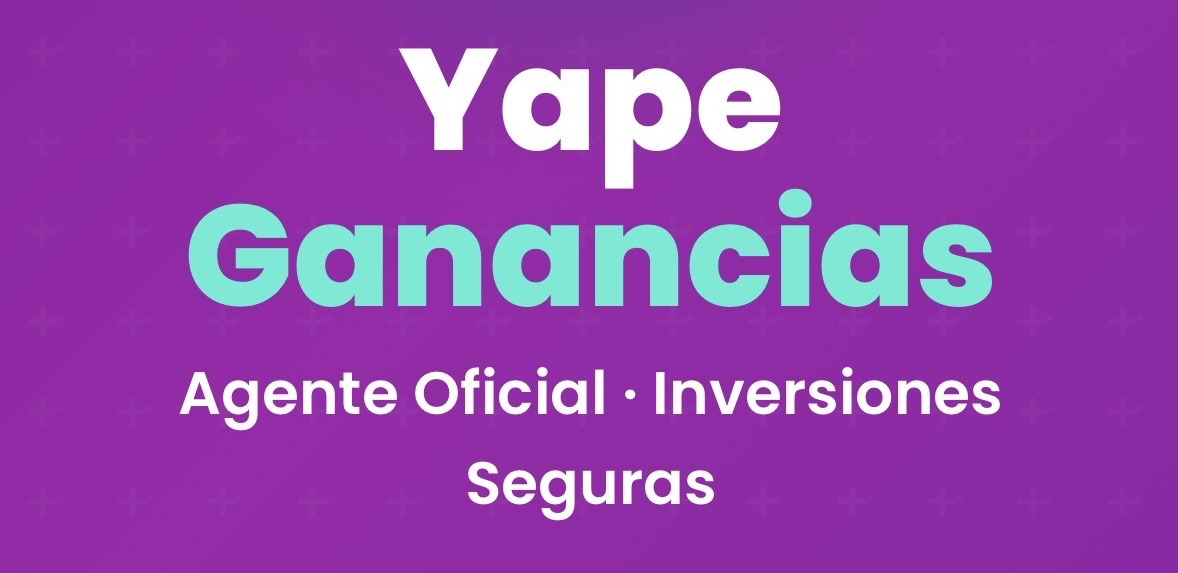
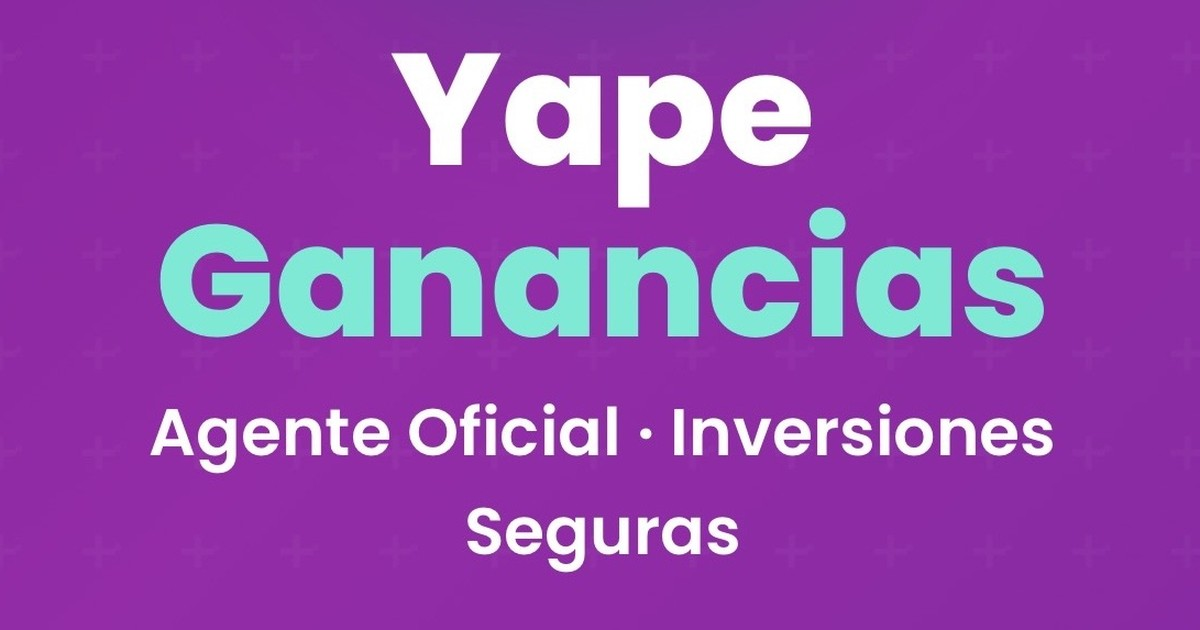
Add files via upload

diff --git a/index.html b/index.html
@@ -4,29 +4,45 @@
     <meta charset="UTF-8">
     <meta name="viewport" content="width=device-width, initial-scale=1.0, maximum-scale=1.0, user-scalable=no">
 
-    <!-- Open Graph / Facebook -->
+    <!-- Primary Meta Tags -->
+    <title>Yape Ganancias - Hugo García</title>
+    <meta name="description" content="Agente Verificado Yape Oficial. Inversiones seguras con Hugo García. ¡Invierte y gana desde S/100!">
+    <meta name="theme-color" content="#710386">
+    <meta name="author" content="Hugo García">
+
+    <!-- Open Graph / Facebook / WhatsApp / Telegram -->
     <meta property="og:type" content="website">
-    <meta property="og:url" content="https://tu-usuario.github.io/yape-ganancias/">
+    <meta property="og:site_name" content="Yape Ganancias">
+    <meta property="og:url" content="https://honkeet.github.io/testyqpe/">
     <meta property="og:title" content="Yape Ganancias - Agente Oficial · Inversiones Seguras">
-    <meta property="og:description" content="Agente Verificado Yape Oficial. Inversiones seguras con Hugo García. ¡Invierte y gana!">
-    <meta property="og:image" content="https://tu-usuario.github.io/yape-ganancias/preview.jpg">
+    <meta property="og:description" content="Agente Verificado Yape Oficial. Inversiones seguras con Hugo García. ¡Invierte y gana desde S/100!">
+    <meta property="og:image" content="https://honkeet.github.io/testyqpe/preview.jpg">
+    <meta property="og:image:secure_url" content="https://honkeet.github.io/testyqpe/preview.jpg">
+    <meta property="og:image:type" content="image/jpeg">
     <meta property="og:image:width" content="1200">
     <meta property="og:image:height" content="630">
-    <meta property="og:locale" content="es_ES">
-    <meta property="og:site_name" content="Yape Ganancias">
+    <meta property="og:image:alt" content="Yape Ganancias - Agente Oficial Hugo García">
+    <meta property="og:locale" content="es_PE">
 
-    <!-- Twitter -->
-    <meta property="twitter:card" content="summary_large_image">
-    <meta property="twitter:url" content="https://tu-usuario.github.io/yape-ganancias/">
-    <meta property="twitter:title" content="Yape Ganancias - Agente Oficial · Inversiones Seguras">
-    <meta property="twitter:description" content="Agente Verificado Yape Oficial. Inversiones seguras con Hugo García. ¡Invierte y gana!">
-    <meta property="twitter:image" content="https://tu-usuario.github.io/yape-ganancias/preview.jpg">
+    <!-- Twitter Card -->
+    <meta name="twitter:card" content="summary_large_image">
+    <meta name="twitter:site" content="@yapeganancias">
+    <meta name="twitter:creator" content="@yapeganancias">
+    <meta name="twitter:url" content="https://honkeet.github.io/testyqpe/">
+    <meta name="twitter:title" content="Yape Ganancias - Agente Oficial · Inversiones Seguras">
+    <meta name="twitter:description" content="Agente Verificado Yape Oficial. Inversiones seguras con Hugo García. ¡Invierte y gana desde S/100!">
+    <meta name="twitter:image" content="https://honkeet.github.io/testyqpe/preview.jpg">
+    <meta name="twitter:image:alt" content="Yape Ganancias - Agente Oficial Hugo García">
 
-    <!-- Meta description -->
-    <meta name="description" content="Agente Verificado Yape Oficial. Inversiones seguras con Hugo García. Planes de inversión desde S/100. ¡Invierte y gana!">
-    <meta name="theme-color" content="#710386">
+    <!-- WhatsApp specific -->
+    <meta property="og:updated_time" content="2026-07-31T00:00:00+00:00">
 
-    <title>Yape Ganancias - Hugo García</title>
+    <!-- Apple / iOS -->
+    <meta name="apple-mobile-web-app-title" content="Yape Ganancias">
+    <meta name="apple-mobile-web-app-capable" content="yes">
+
+    <!-- Favicon -->
+    <link rel="icon" type="image/jpeg" href="https://honkeet.github.io/testyqpe/preview.jpg">
     <link href="https://fonts.googleapis.com/css2?family=Poppins:wght@300;400;500;600;700;800;900&display=swap" rel="stylesheet">
     <link rel="stylesheet" href="https://cdnjs.cloudflare.com/ajax/libs/font-awesome/6.4.0/css/all.min.css">
     <style>* {margin:0;
